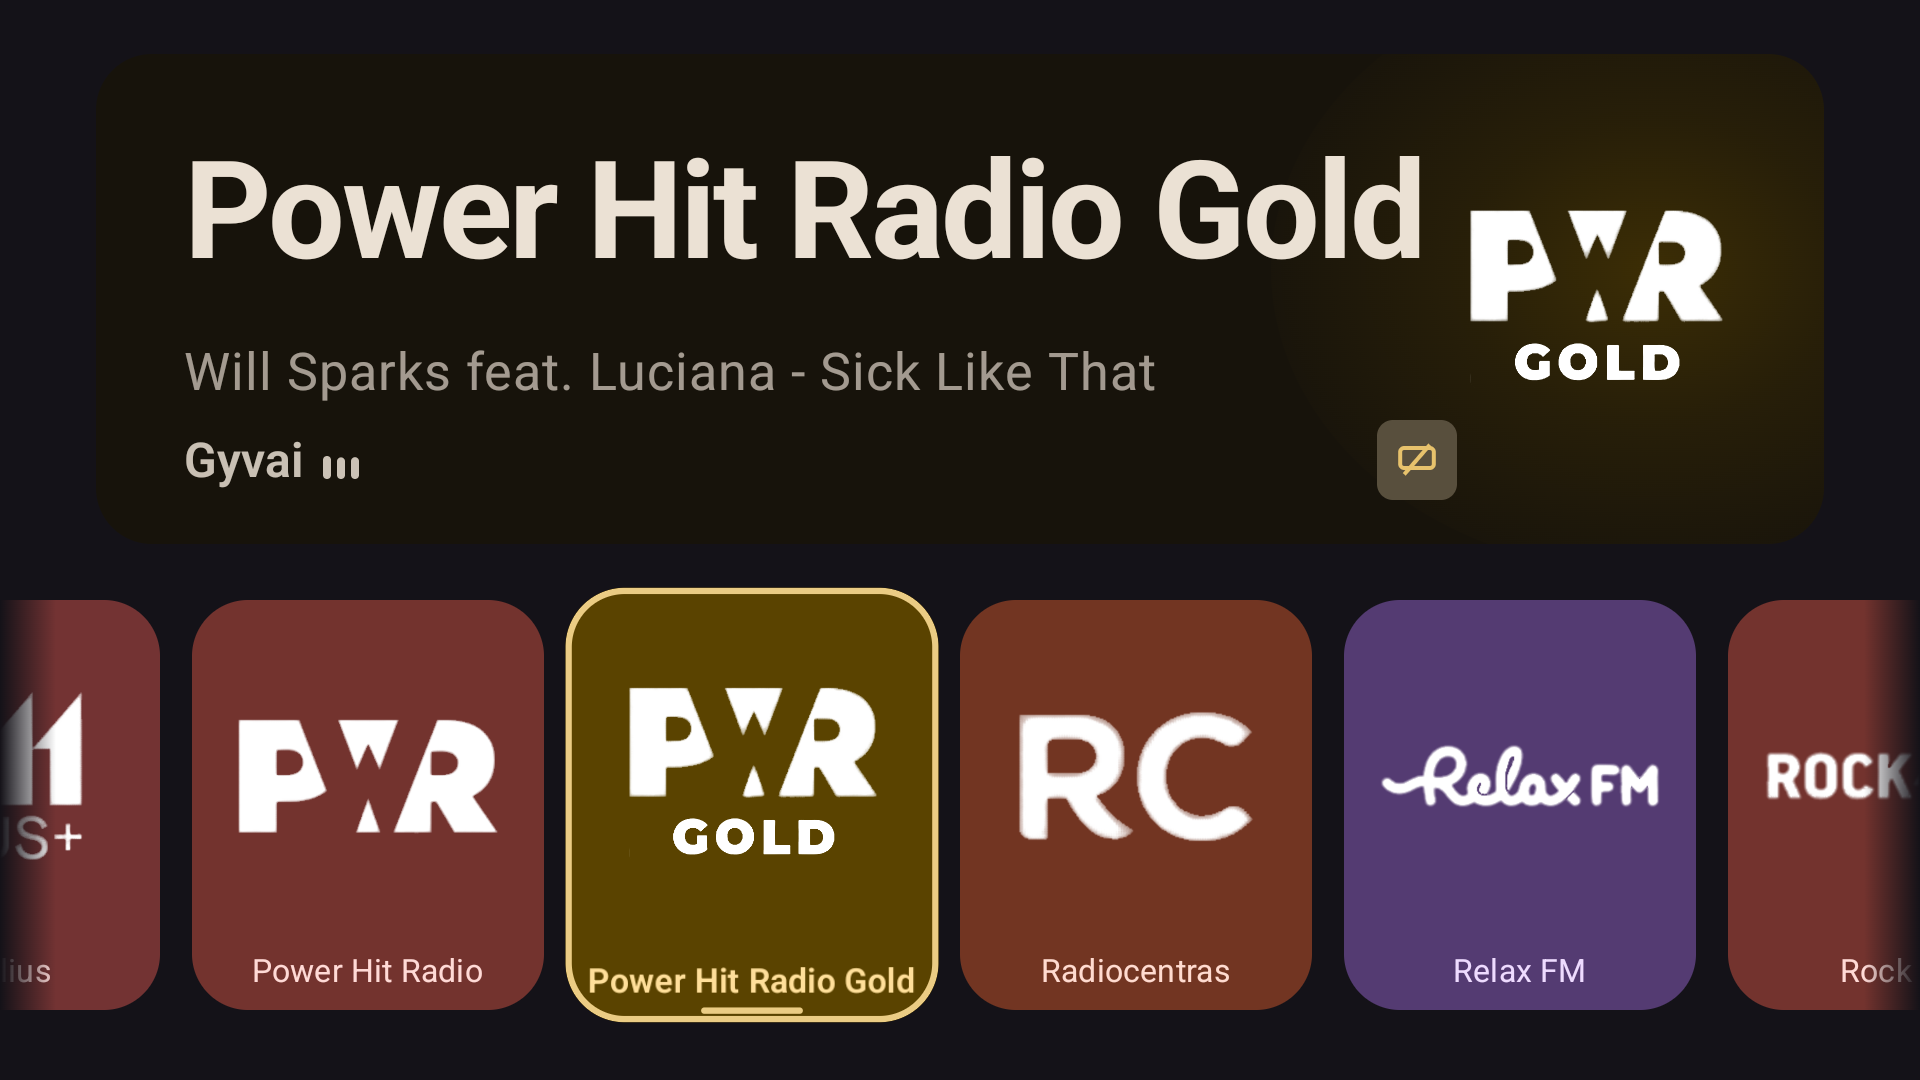
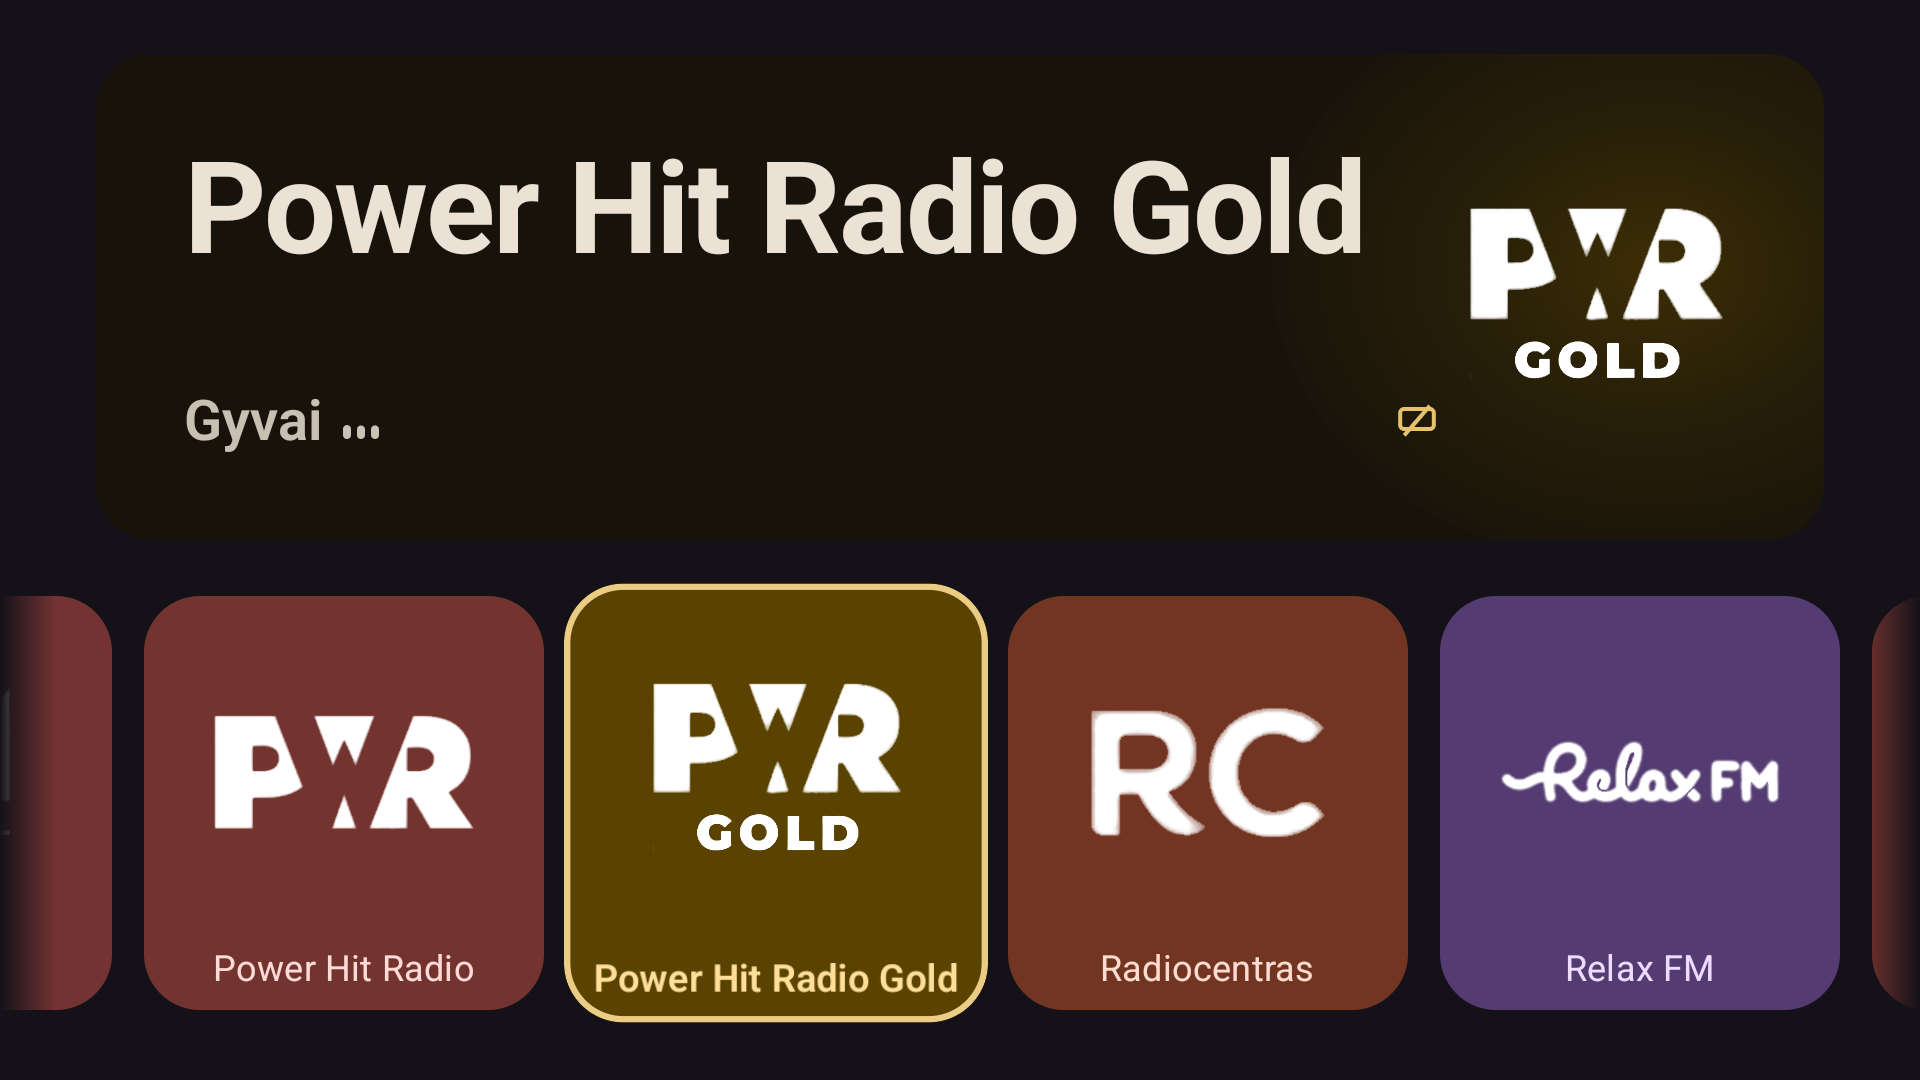
docs: screenshots, status and design notes for the restyle and focus fix

diff --git a/docs/STATUS.md b/docs/STATUS.md
@@ -26,6 +26,8 @@ Atnaujinta: 2026-10-30 (paskutinė testų ir lint patikra — 17:39)
 - **Ekrano užgesinimas (2026-10-30):** hero dešinėje, po logotipu (136 dp), mygtukas „Ekranas". Paspaudus rodomas juodas sluoksnis, garsas nesustoja; `FLAG_KEEP_SCREEN_ON` tik kol sluoksnis matomas. Bet kuris pulto klavišas grąžina ekraną ir yra sugeriamas (`dispatchKeyEvent`, pabudinama UP momentu, kad tas pats paspaudimas neįjungtų stoties). Būsena išgyvena raiškos pakeitimą, bet ne procesų mirtį. Patikrinta emuliatoriuje: garsas nenutrūko, pabudimo klavišas stoties nepakeitė.
 - **Release build (2026-10-30, pirmą kartą):** `assembleRelease` su R8 ir resursų suspaudimu sukompiliuotas → `app/src/../build/outputs/apk/release/app-release-unsigned.apk` (2,21 MB, nepasirašytas). Pirmą kartą reikia interneto (`compose-group-mapping` nėra Gradle cache) ir `--no-configuration-cache`, nes AGP 9.2 Compose mapping task'as neserializuojamas configuration cache. Tai release build patikra, ne pasirašytas leidimas.
 - **Logotipų optinė normalizacija (2026-10-30):** stoties ženklas nebėra tempiasi į 156 dp kvadratą. `ui/theme/StationLogoScale.kt` laiko vieno ženklo pločio dalį; wordmark'ai (EHR, Gold FM, Lietus, Relax, Rock, ZIP) lieka per visą plotį, o tankūs kompaktiški ženklai mažinami (M-1 Plius 0,71, M-1 0,80, PHR Gold 0,83, RC 0,84, Power Hit 0,93), kol jų „rašalo" plotas siekia ~4200 dp². `StationLogoScaleTest` perskaičiuoja tai iš PNG, tad lentelė negali savaime išsiderinti.
+- **Hallmark audito restyle (2026-10-30):** tipografinė skalė perkelta į temą ir apversta hierarchija ištaisyta — stoties vardas 96→64 sp, daina 26→32 sp, būsena 24→28 sp, plytelės etiketė 16→18 sp, plytelė 176→200 dp; „Ekranas" nefokusuotas nebėra piliulė (tik glyph), o fokusuotas rodo užrašą. Juodas ekrano kadras gavo `ScreenOffBlack` tokeną. Pridėtas kontrolės glyph'o kontrasto testas (4.67:1). Įrašyta dizaino dokumente §12.
+- **Plytelių žymėjimas ir fokuso grįžimas (2026-10-30):** pašalinta grojimo juosta nuo plytelės (lieka fokuso rėmelis); „Ekranas" → atgal `↓` grąžina į tą pačią plytelę, kurią palikai (`ShelfFocusState` + scroll + focus; testas `HeroPanelTest`).
 - Testų būsena (2026-10-30 18:25): **99 testai, 0 klaidų** (`app/build/test-results/testDebugUnitTest`), lint **0 klaidų / 31 įspėjimas**. Iš jų 18 nauji: `PlayerStateMappingTest` (8), `StationSelectionTest` (6), `PlayerStatusTest` (+2), `StationShelfTest` (+2 accessibility). Ankstesnis 78 testų skaičius yra to paties dokumento istorija (žr. `docs/2026-10-30-radio-update.md` įžangą).
 - Po viršelių pašalinimo Java 21 patikra: 78 testai praeina, debug APK susirenka, lint — 0 klaidų / 31 įspėjimas (to meto skaičius; dabar — 96, žr. aukščiau). Išsamūs įrodymai ir screenshotai — `docs/2026-10-30-radio-update.md` ir `docs/screenshots/2026-10-30/`.
 - README, ekrano nuotraukos, logotipas, TV baneris, AI autorystės disclosure.

diff --git a/docs/superpowers/specs/2026-10-30-m3-system-and-screen-off-design.md b/docs/superpowers/specs/2026-10-30-m3-system-and-screen-off-design.md
@@ -102,7 +102,6 @@ Minimumas per visas 11 stočių: **label/surfaceVariant 5.47**, **onSurface/surf
 | Plytelė (fokusuota) | ta pati `primaryContainer`; fokusą rodo `border` rėmelis ir 6 % mastelis |
 | Plytelės etiketė | `onSurfaceVariant`; fokusuota — `onPrimaryContainer` |
 | Fokuso rėmelis | `border` (≥ 6:1 prie visų trijų paviršių) |
-| Grojančios plytelės juosta | `primary` |
 | Ekvalaizerio brūkšneliai | `onSurface` |
 | Mygtukas „Ekranas" | `surfaceVariant` + `primary` ikona |
 
@@ -235,3 +234,6 @@ Darbas vidutinis (ne vienas failas). Etapai, kiekvienas atskirai patikrinamas:
 - **Kiekviena plytelė ima savo stoties schemą** (`stationScheme(station.id)`), o ne `MaterialTheme` (ta yra grojamos stoties). Be to kiekviena plytelė būtų vienodos spalvos — būtent ta klaida ir buvo padaryta pirminėje M3 versijoje.
 - Plytelių etiketė `onPrimaryContainer` ant `primaryContainer` = 7.19:1; rėmelis prie `primaryContainer` = 6.0:1.
 - **Logotipų optinė normalizacija:** `ui/theme/StationLogoScale.kt` + `StationLogoScaleTest`; dydis nustatomas pagal rašalo plotą (~4200 dp²), ne pagal `ContentScale.Fit`. Wordmark'ai lieka 1,0, kompaktūs ženklai 0,71–0,93.
+- **Hallmark audito restyle:** hierarchija atstatyta pagal naudotojo žvilgsnį — vardas 64 sp (buvo 96), daina 32 sp (buvo 26), būsena 28 sp (buvo 24), plytelės etiketė 18 sp, plytelė 200 dp; tipas skaitomas iš `RadijasTypography`. „Ekranas" nefokusuotas — tik glyph, fokusuotas — piliulė su užrašu. `ScreenOffBlack` tokenas juodam kadrui.
+- **Grojimo juosta pašalinta (2026-10-30, savininko prašymu):** plytelės žymimos tik fokuso rėmeliu (3 dp `border`) ir 6 % masteliu; jokio papildomo žymėjimo ant grojančios plytelės. „Groja" liko tik accessibility `stateDescription`.
+- **Fokuso grįžimas iš „Ekranas" (2026-10-30):** `ui/ShelfFocusState.kt` + `StationShelf` atsimena, kurią plytelę D-pad paliko, ir `↓` grąžina į ją (su `scrollToItem` + `requestFocus`), o ne į geometriškai artimiausią plytelę po valdikliu. Testas: `HeroPanelTest` „down from the screen-off control returns to the station that was left".

diff --git a/docs/screenshots/2026-10-30/README.md b/docs/screenshots/2026-10-30/README.md
@@ -13,7 +13,7 @@ pašalintas, kad nebūtų klaidinantis dabartinės programėlės pavyzdys.
 - `11-screen-off.png`: ekranas užgesintas, dar matoma užuomina.
 - `12-m3-start.png`: paleidimas — paskutinė stotis, fokusas jau ant jos; logotipai optiškai suvienodinti (wordmark'ai per visą plotį, tankūs ženklai mažesni).
 - `13-m3-lietus.png`: Lietus; žalias hero, toninis fonas.
-- `14-m3-playing-unfocused.png`: groja Lietus, fokusas ant Gold FM — grojanti plytelė pažymėta brando juostele.
+- `14-m3-playing-unfocused.png`: groja Lietus, fokusas ant Gold FM; plytelės žymimos tik fokuso rėmeliu, jokios papildomos juostos.
 - `15-m3-zip-fm.png`: paskutinė A–Z stotis ZIP FM.
 - `16-m3-ehr.png`: pirmoji A–Z stotis European Hit Radio.
 - `17-screen-button-focus.png`: „Ekranas" valdiklis būsenos eilutės gale, fokusuotas — užrašas pasirodo tik tada; logotipas vėl 168 dp.
